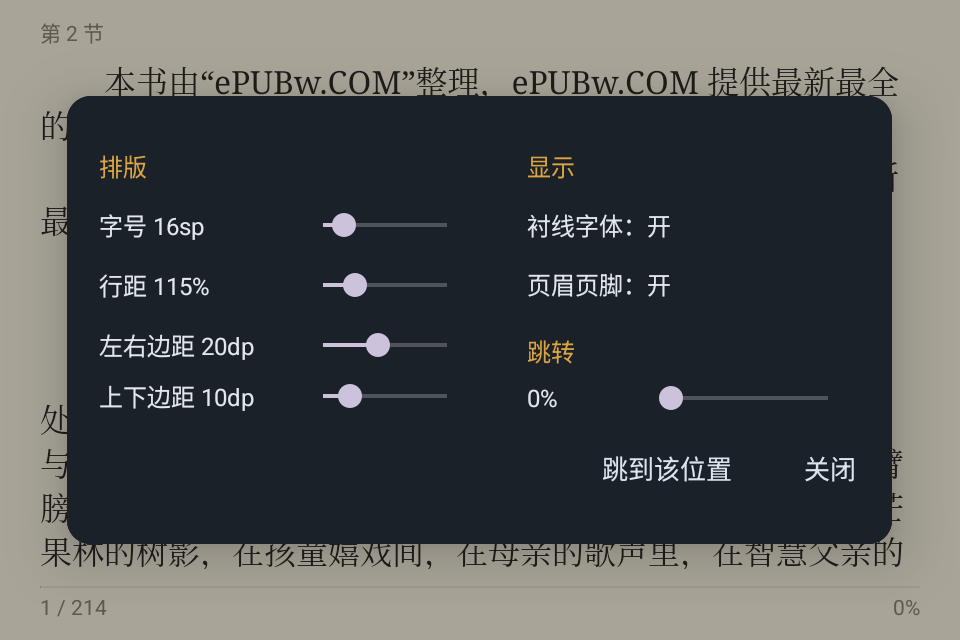
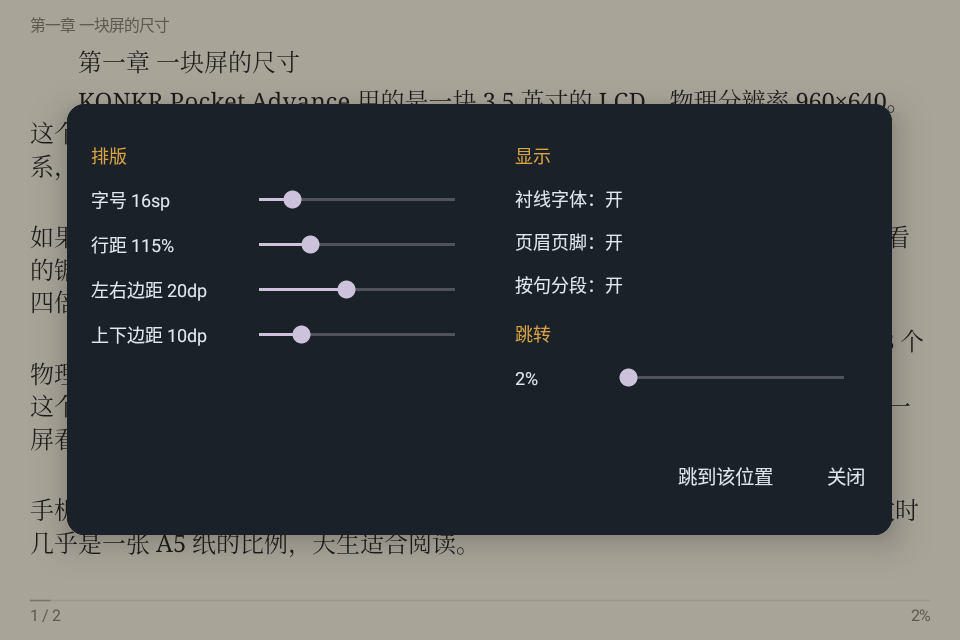
feat: 按句分段 —— 长自然段拆成一句一行
设置面板「显示」下新增开关。开启后正文按句切分排版：段落首句保留两字缩进，
后续句子顶格，句与句之间不加额外间距，段落之间的间距不变；标题和引用不参与拆分。

切分只算排版边界、不动字符，所以进度、书签、全文搜索用的字符偏移完全不受影响，
开关来回切换也不会跳位置。

- SentenceSplitter：按 。！？… 等切句；合并连续终止符（？！ / ……）；
  句末的闭合引号括号归到前一句；英文句点要求后跟空白且前面不是数字，
  避免把「3.5 寸」「v1.2」切开
- LayoutEngine：buildLayout 增加终点参数，paginate 按句推进 charIn，
  同一段的后续句子不加段间距
- PageView 绘制必须传 item.to —— 否则整段文字会被重复画在每一句上
- 新增 11 个单元测试（总计 35 个）

顺带修掉一个翻页残影：淡出动画只把 alpha 降到 0.15 就停住了，
上一页的残影会永久叠在正文上。补 onAnimationEnd 归零。

diff --git a/app/src/main/java/com/kpa/reader/doc/LayoutEngine.kt b/app/src/main/java/com/kpa/reader/doc/LayoutEngine.kt
@@ -13,6 +13,10 @@ import android.text.style.LeadingMarginSpan
  * 长段落用 getLineStart 在行边界切开，剩余部分接到下一页且不再做首行缩进。
  * 图片按页宽等比缩放，比整页还高的图单独占一页。
  *
+ * [sentenceSegments] 打开时，正文块会先按句切分再逐句排版（「按句分段」/「一句一段」）：
+ * 每句独立成行，句与句之间不加段间距，只有段落首句保留两字缩进。
+ * 切分只改变排版边界，不动字符本身，进度/书签/搜索用的字符偏移因此完全不受影响。
+ *
  * 所有 Paint 都在构造时**深拷贝**一份：分页会被丢到后台线程跑，
  * 如果和界面线程共用同一个 Paint 实例，改字号时会撞车。
  */
@@ -24,7 +28,8 @@ class LayoutEngine(
     private val lineSpacingMult: Float,
     private val indentPx: Float,
     private val paraSpacingPx: Float,
-    private val imageMetrics: (String) -> Pair<Int, Int>?
+    private val imageMetrics: (String) -> Pair<Int, Int>?,
+    private val sentenceSegments: Boolean = false
 ) {
 
     private val body = TextPaint(bodyPaint)
@@ -88,9 +93,22 @@ class LayoutEngine(
         else -> 0f
     }
 
-    fun buildLayout(style: Int, blockStart: Int, blockEnd: Int, fromChar: Int): StaticLayout {
+    /**
+     * [fromChar] / [toChar] 都是**块内**偏移；[toChar] 传 -1 表示一直排到块尾。
+     *
+     * 按句分段时每句只排到自己的句末 —— 否则同一段里的句子会被整段重排一遍、
+     * 在页面上叠着画出来。
+     */
+    fun buildLayout(
+        style: Int,
+        blockStart: Int,
+        blockEnd: Int,
+        fromChar: Int,
+        toChar: Int = -1
+    ): StaticLayout {
         val s = (blockStart + fromChar).coerceIn(0, text.length)
-        val e = blockEnd.coerceIn(s, text.length)
+        val rawEnd = if (toChar >= 0) blockStart + toChar else blockEnd
+        val e = rawEnd.coerceIn(s, text.length)
         val paint = paintFor(style)
         val cs: CharSequence = if (fromChar == 0 && style == Block.BODY && indentPx > 0.5f) {
             SpannableString(text.substring(s, e)).apply {
@@ -134,6 +152,9 @@ class LayoutEngine(
 
         var bi = fromBlock.coerceAtLeast(0)
         var charIn = if (bi == fromBlock) fromChar.coerceAtLeast(0) else 0
+        // 按句分段用：当前块的句末偏移表，以及它属于哪个块（避免每轮重复切句）
+        var segEnds: IntArray = intArrayOf(0)
+        var segBlock = -1
 
         while (bi < blocks.size) {
             val b = blocks[bi]
@@ -153,16 +174,36 @@ class LayoutEngine(
                 continue
             }
 
-            if (b.start + charIn >= b.end) { bi++; charIn = 0; continue }
+            val blockLen = b.end - b.start
+            if (charIn >= blockLen) { bi++; charIn = 0; continue }
 
-            val layout = buildLayout(b.style, b.start, b.end, charIn)
-            val gap = if (items.isEmpty()) 0f else gapBefore(b.style)
+            // 正文块在开启「按句分段」时拆句；标题、引用保持整块不动
+            if (segBlock != bi) {
+                segEnds = if (sentenceSegments && b.style == Block.BODY) {
+                    SentenceSplitter.splitEnds(text, b.start, b.end)
+                } else {
+                    intArrayOf(blockLen)
+                }
+                segBlock = bi
+            }
+            // 当前这一句的句末（块内偏移）
+            var curEnd = blockLen
+            for (k in segEnds.indices) {
+                if (segEnds[k] > charIn) { curEnd = segEnds[k]; break }
+            }
+            curEnd = curEnd.coerceIn(charIn + 1, blockLen)
+
+            val layout = buildLayout(b.style, b.start, b.end, charIn, curEnd)
+            // 同一段内的后续句子紧接着上一句排，不加段间距
+            val gap = if (items.isEmpty() || charIn > 0) 0f else gapBefore(b.style)
             val need = layout.height + gap
+            val isLastSeg = curEnd >= blockLen
+            val after = if (isLastSeg) gapAfter(b.style) else 0f
 
-            if (y + need + gapAfter(b.style) <= height) {
-                items.add(Item.TextSeg(bi, charIn, b.end - b.start, charIn == 0 && b.style == Block.BODY, b.style, (y + gap).toInt()))
-                y += need + gapAfter(b.style)
-                bi++; charIn = 0
+            if (y + need + after <= height) {
+                items.add(Item.TextSeg(bi, charIn, curEnd, charIn == 0 && b.style == Block.BODY, b.style, (y + gap).toInt()))
+                y += need + after
+                if (isLastSeg) { bi++; charIn = 0 } else { charIn = curEnd }
                 continue
             }
 
@@ -175,9 +216,9 @@ class LayoutEngine(
             }
 
             if (fit >= layout.lineCount) {
-                items.add(Item.TextSeg(bi, charIn, b.end - b.start, charIn == 0 && b.style == Block.BODY, b.style, (y + gap).toInt()))
-                y += need + gapAfter(b.style)
-                bi++; charIn = 0
+                items.add(Item.TextSeg(bi, charIn, curEnd, charIn == 0 && b.style == Block.BODY, b.style, (y + gap).toInt()))
+                y += need + after
+                if (isLastSeg) { bi++; charIn = 0 } else { charIn = curEnd }
                 continue
             }
 

diff --git a/app/src/main/java/com/kpa/reader/doc/SentenceSplitter.kt b/app/src/main/java/com/kpa/reader/doc/SentenceSplitter.kt
@@ -1,0 +1,85 @@
+package com.kpa.reader.doc
+
+/**
+ * 句子切分（供「按句分段」模式使用）。
+ *
+ * 目标是把一个自然段切成若干句，让排版引擎一句一段地排。
+ * 只处理边界识别，不改变字符本身 —— 切分结果是一串**块内相对偏移**，
+ * 所以全书字符偏移（进度、书签、搜索的基准）完全不受影响。
+ */
+object SentenceSplitter {
+
+    /** 句末标点。分号故意不在内：中文分号多用于并列长句，切断会把句子打得太碎。 */
+    private fun isTerminator(t: CharSequence, i: Int, start: Int, end: Int): Boolean {
+        return when (t[i]) {
+            '。', '．', '！', '？', '!', '?', '…' -> true
+            // 英文句点要额外判断，否则 "3.5 寸" "v1.2" 会被切开
+            '.' -> {
+                val next = if (i + 1 < end) t[i + 1] else ' '
+                val nextOk = next.isWhitespace() || isCloser(next)
+                val prevDigit = i > start && t[i - 1].isDigit()
+                nextOk && !prevDigit
+            }
+            else -> false
+        }
+    }
+
+    /** 句末后可能紧跟的闭合符号，应归到前一句里 */
+    private fun isCloser(c: Char): Boolean = when (c) {
+        '”', '’', '」', '』', '）', ')', '】', '》', '〉', '"', '\'' -> true
+        else -> false
+    }
+
+    private fun hasContent(t: CharSequence, from: Int, to: Int): Boolean {
+        for (k in from until to) {
+            if (!t[k].isWhitespace()) return true
+        }
+        return false
+    }
+
+    /**
+     * 返回句末偏移数组，元素是**相对 [start] 的偏移**，升序，最后一个恒等于 `end - start`。
+     *
+     * 段落里没有任何终止符时返回单元素数组，等价于不拆分。
+     */
+    fun splitEnds(text: CharSequence, start: Int, end: Int): IntArray {
+        if (end <= start) return IntArray(0)
+        val len = end - start
+        val out = ArrayList<Int>(8)
+
+        var segStart = start
+        var i = start
+        while (i < end) {
+            if (!isTerminator(text, i, start, end)) {
+                i++
+                continue
+            }
+            var j = i + 1
+            // 吞掉连续终止符："？！" "……" "。。。"
+            while (j < end && isTerminator(text, j, start, end)) j++
+            // 吞掉跟在句末的闭合引号、括号
+            while (j < end && isCloser(text[j])) j++
+
+            if (!hasContent(text, segStart, j)) {
+                // 这一"句"只有空白，不断开，继续往后找
+                i = j
+                continue
+            }
+            out.add(j - start)
+            segStart = j
+            i = j
+        }
+
+        // 收尾：保证最后一句正好吃到块尾，否则剩余空白会被当成一段再排一次
+        if (out.isEmpty()) {
+            out.add(len)
+        } else if (out.last() < len) {
+            if (hasContent(text, start + out.last(), end)) {
+                out.add(len)
+            } else {
+                out[out.size - 1] = len
+            }
+        }
+        return out.toIntArray()
+    }
+}

diff --git a/app/src/test/java/com/kpa/reader/doc/SentenceSplitterTest.kt b/app/src/test/java/com/kpa/reader/doc/SentenceSplitterTest.kt
@@ -1,0 +1,81 @@
+package com.kpa.reader.doc
+
+import org.junit.Assert.assertArrayEquals
+import org.junit.Test
+
+class SentenceSplitterTest {
+
+    private fun ends(s: String) = SentenceSplitter.splitEnds(s, 0, s.length)
+
+    @Test
+    fun `中文句子按句末标点切开`() {
+        val s = "今天天气很好。我们去公园吧！"
+        assertArrayEquals(intArrayOf(7, 14), ends(s))
+    }
+
+    @Test
+    fun `没有标点的段落不拆分`() {
+        val s = "这一段没有任何句末标点所以应当保持原样"
+        assertArrayEquals(intArrayOf(s.length), ends(s))
+    }
+
+    @Test
+    fun `连续终止符合并为一句`() {
+        val s = "真的吗？！不可能……"
+        // "？！" 与 "……" 各自整体作为句末，不能拆成一堆空句
+        assertArrayEquals(intArrayOf(5, 10), ends(s))
+    }
+
+    @Test
+    fun `句末的闭合引号跟着前一句`() {
+        val s = "他说：「走吧。」然后离开了。"
+        assertArrayEquals(intArrayOf(8, 14), ends(s))
+    }
+
+    @Test
+    fun `小数点不当作句末`() {
+        val s = "版本 1.2 支持 3.5 寸屏"
+        assertArrayEquals(intArrayOf(s.length), ends(s))
+    }
+
+    @Test
+    fun `英文句子按句点加空格切开`() {
+        val s = "Hello world. This is fine."
+        assertArrayEquals(intArrayOf(12, 26), ends(s))
+    }
+
+    @Test
+    fun `分号不作为句末`() {
+        val s = "春天播种；秋天收获。"
+        assertArrayEquals(intArrayOf(10), ends(s))
+    }
+
+    @Test
+    fun `段尾的空白并进最后一句`() {
+        val s = "话说完了。   "
+        val e = ends(s)
+        // 最后一个边界必须正好是块尾，否则剩余空白会被单独排成一段
+        assertArrayEquals(intArrayOf(s.length), e)
+    }
+
+    @Test
+    fun `空文本返回空数组`() {
+        assertArrayEquals(IntArray(0), SentenceSplitter.splitEnds("", 0, 0))
+    }
+
+    @Test
+    fun `最后一个边界恒等于区间长度`() {
+        val s = "第一句。第二句！第三句？尾巴"
+        val e = ends(s)
+        assertArrayEquals(intArrayOf(4, 8, 12, 14), e)
+        assert(e.last() == s.length)
+    }
+
+    @Test
+    fun `带偏移区间切分正确`() {
+        val s = "前言。第一句。第二句。"
+        val e = SentenceSplitter.splitEnds(s, 3, s.length)
+        // 返回的是相对 start 的偏移："第一句。" "第二句。" 各 4 字
+        assertArrayEquals(intArrayOf(4, 8), e)
+    }
+}

diff --git a/app/src/main/java/com/kpa/reader/ui/PageView.kt b/app/src/main/java/com/kpa/reader/ui/PageView.kt
@@ -1,5 +1,7 @@
 package com.kpa.reader.ui
 
+import android.animation.Animator
+import android.animation.AnimatorListenerAdapter
 import android.animation.ValueAnimator
 import android.content.Context
 import android.graphics.Bitmap
@@ -168,7 +170,8 @@ class PageView @JvmOverloads constructor(
             lineSpacingMult = settings.lineSpacingMult,
             indentPx = paint.textSize * 2f,
             paraSpacingPx = paint.textSize * settings.paragraphSpacingEm,
-            imageMetrics = { name -> imageSizeOf(name) }
+            imageMetrics = { name -> imageSizeOf(name) },
+            sentenceSegments = settings.sentenceSegments
         )
     }
 
@@ -268,7 +271,9 @@ class PageView @JvmOverloads constructor(
             when (item) {
                 is LayoutEngine.Item.TextSeg -> {
                     val b = d.blocks.getOrNull(item.blockIndex) ?: continue
-                    val layout = e.buildLayout(item.style, b.start, b.end, item.from)
+                    // 必须带上 item.to：按句分段时同一块会被切成多段，
+                    // 只按块边界建 layout 会把整段重画在每一段上
+                    val layout = e.buildLayout(item.style, b.start, b.end, item.from, item.to)
                     texts.add(Rendered(layout, item.y))
                 }
                 is LayoutEngine.Item.Img -> imgs.add(item)
@@ -491,6 +496,13 @@ class PageView @JvmOverloads constructor(
                 ghostAlpha = 1f - p * 0.85f
                 invalidate()
             }
+            // 淡出只到 0.15，不归零的话上一层页面的残影会永久叠在正文上
+            addListener(object : AnimatorListenerAdapter() {
+                override fun onAnimationEnd(animation: Animator) {
+                    ghostAlpha = 0f
+                    invalidate()
+                }
+            })
             start()
         }
     }

diff --git a/app/src/main/java/com/kpa/reader/data/ReaderSettings.kt b/app/src/main/java/com/kpa/reader/data/ReaderSettings.kt
@@ -34,7 +34,9 @@ data class ReaderSettings(
     val padVdp: Int = 10,
     val theme: ReaderTheme = ReaderTheme.PAPER,
     val serif: Boolean = true,
-    val showStatusBar: Boolean = true
+    val showStatusBar: Boolean = true,
+    /** 按句分段：长自然段拆成一句一段显示，只影响排版，不改字符偏移 */
+    val sentenceSegments: Boolean = false
 )
 
 class SettingsStore(context: Context) {
@@ -49,7 +51,8 @@ class SettingsStore(context: Context) {
         padVdp = sp.getInt("pad_v", 10).coerceIn(4, 80),
         theme = ReaderTheme.of(sp.getString("theme", "paper")),
         serif = sp.getBoolean("serif", true),
-        showStatusBar = sp.getBoolean("status_bar", true)
+        showStatusBar = sp.getBoolean("status_bar", true),
+        sentenceSegments = sp.getBoolean("sentence_segments", false)
     )
 
     fun save(s: ReaderSettings) {
@@ -62,6 +65,7 @@ class SettingsStore(context: Context) {
             .putString("theme", s.theme.key)
             .putBoolean("serif", s.serif)
             .putBoolean("status_bar", s.showStatusBar)
+            .putBoolean("sentence_segments", s.sentenceSegments)
             .apply()
     }
 

diff --git a/app/src/main/java/com/kpa/reader/ui/ReaderActivity.kt b/app/src/main/java/com/kpa/reader/ui/ReaderActivity.kt
@@ -652,6 +652,9 @@ class ReaderActivity : AppCompatActivity(), PageView.Listener {
         title(right, "显示")
         toggle(right, "衬线字体", settings.serif) { on -> applySettings(settings.copy(serif = on)) }
         toggle(right, "页眉页脚", settings.showStatusBar) { on -> applySettings(settings.copy(showStatusBar = on)) }
+        toggle(right, "按句分段", settings.sentenceSegments) { on ->
+            applySettings(settings.copy(sentenceSegments = on))
+        }
 
         title(right, "跳转")
         val jumpRow = LinearLayout(this).apply {

diff --git a/README.md b/README.md
@@ -43,7 +43,7 @@
 十字键在按钮间移动焦点，**A 确认**，**B / START 收起**。
 菜单：目录 / 搜索 / 书签 / A- / A+ / 主题 / 昼夜 / 设置。
 
-**设置面板**（横屏两列）：字号、行距、左右边距、上下边距、衬线字体开关、页眉页脚开关、全书跳转。
+**设置面板**（横屏两列）：字号、行距、左右边距、上下边距、衬线字体开关、页眉页脚开关、按句分段开关、全书跳转。
 拖动滑块松手即生效，关掉页眉页脚就是纯正文满屏。
 
 ### 书架
@@ -67,6 +67,8 @@
 ### 阅读
 
 - **分页**：段落流式分页，中文首行缩进两字，跨页续段不重复缩进
+- **按句分段**：开关一开，长自然段拆成一句一行 —— 段落首句缩进、后续句子顶格，句间不加额外间距。
+  只改排版边界不动字符，进度、书签、搜索的位置完全不受影响；标题和引用保持原样
 - **插图**：按页宽等比缩放、居中；比整页还高的图单独占一页；位图走 LruCache
 - **全文搜索**：后台扫描全书，结果带章节归属 + 上下文，关键词红色高亮，点一下跳过去
 - **章节**：自动识别「第X章 / 第X回 / 第X卷 / 序章 / 楔子 / Chapter N」；EPUB/MOBI 用内置目录
@@ -102,6 +104,7 @@
 
 ## 版本
 
+- **1.3** 按句分段（一句一段显示）、35 个单元测试；修掉翻页残留淡出图层的问题
 - **1.2** 性能与体验优化：后台分页、图片后台解码、书库异步写盘、设置面板、页脚进度条、滑动翻页、目录定位、导入进度与友好报错、24 个单元测试。详见 `OPTIMIZATION.md`
 - **1.1** EPUB 图片与目录、全文搜索、MOBI/AZW3
 - **1.0** TXT/EPUB 基础阅读
@@ -148,6 +151,7 @@ app/src/main/java/com/kpa/reader/
 ├── doc/
 │   ├── Doc.kt                   Block / Document（纯文本 + 块序列）
 │   ├── HtmlBlockParser.kt       容错 HTML → 块（标题/正文/图片/引用）
+│   ├── SentenceSplitter.kt      句子切分（按句分段用，只算边界不动字符）
 │   └── LayoutEngine.kt          分页引擎（文本块 + 图片块）
 ├── book/
 │   ├── TextLoader.kt            编码探测 + 文本归一化
